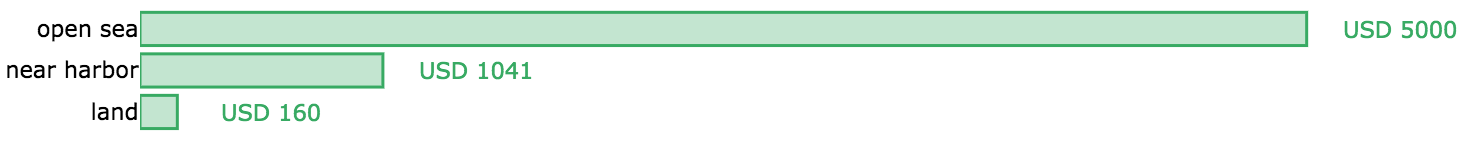
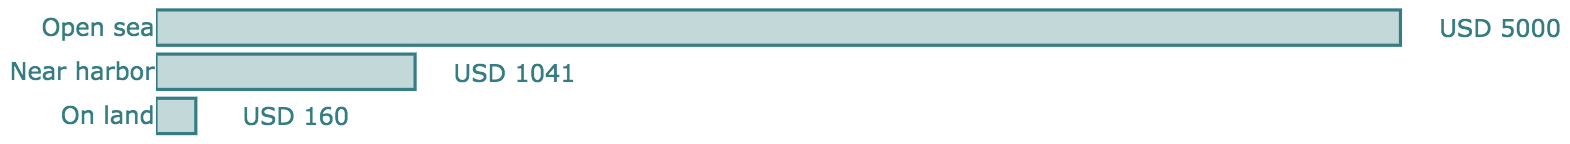
edits

Changed region(s): [[0.0, 0.0563, 0.8926, 0.9577], [0.8926, 0.1127, 1.0, 0.2817]]

diff --git a/plastic_pollution/templates/content/index_details.html b/plastic_pollution/templates/content/index_details.html
@@ -14,13 +14,13 @@
 
 {# estimate 8 million MT #}
 <div class="container">   
-<h4>An estimated 8 million metric tonnes of plastic waste enter the ocean every year</h4>
+<h4>An estimated 8 million metric ton (MT) of plastic waste enter the ocean every year</h4>
 <div class="row"> 
     <div class="col-md-7">
         <div style="width:100%;height:0;padding-bottom:56%;position:relative;"><iframe src="https://giphy.com/embed/jVNRCIoDfJfRTRLQbg" width="100%" height="100%" style="position:absolute" frameBorder="0" class="giphy-embed" allowFullScreen></iframe></div>
     </div>
     <div class="col-md-5">
-        <h5>How much is 8 million metric tonnes?</h5>
+        <h5>How much is 8 million MT?</h5>
         <p>8 million tonnes of plastic, compacted, would fill about 1.2 million freight train cars. If they were all linked together traveling 30 mph (about 50 km/h), it would take 14 days for all 8 million tonnes of plastic to pass.</p>
         <p>Plastic is not biodegradable, so once it’s in the ocean, it remains there.</p>
         
@@ -55,8 +55,11 @@
 <h4 class="text-center">Waste management on land is cheaper</h4>
 <div class="row"> 
     <div class="col-md-12 text-center">
+        <div>
         <img src="static/images/waste_removal_cost_land_sea.png" alt="different amount of plastic waste produced per person on average from different high-income countries" width="100%"/>
-        
+        </div>
+        <br>
+        <h6 class="text-center">Approximate cost of removing 1 MT plastic waste from the ocean, near harbors, and via municipal waste collection on land.</h6>        
     </div>
 </div>
 <br><br>
@@ -166,8 +169,9 @@
 <h4>How much is spent on waste management?</h4>
 <div class="row"> 
     <div class="col-md-7">
+        <div>
         <img src="static/images/city_budget_msw_pct.png" alt="plastic waste managed adequately by country income level" width="100%"/>
-        
+        </div>
         <br>
         <h6 class="text-center">Approximate % of city budgets spent on waste management in high, middle, and low income countries</h6>
     </div>
@@ -179,32 +183,33 @@
 
 <br><br>
 
-
-{#
-<div class="container">   
-<div class="row">        
-<div class="col-md-12">
-    <iframe width="100%" height="500" src="https://www.youtube.com/embed/I4QNolP7Khc" frameborder="0" allow="accelerometer; autoplay; encrypted-media; gyroscope; picture-in-picture" allowfullscreen></iframe>
-</div></div></div>
-
+{# variation in consumption HIC #}
 <br><br>
 <div class="container">   
-<h4 class="text-center">...or recapture the plastic trash near land</h4>
+<h4 class="text-center">How far would a $1,000 investment to clean up plastic waste go?</h4>
 <div class="row"> 
-    <div class="col-md-8">
-        <img src="static/images/mr_trash_wheel_2.jpg" alt="Mr. Trash Wheel in Baltimore, USA" width="100%"/>
-        <h6 class="text-center">Mr. Trash Wheel in Baltimore, MD, USA</h6>
+    <div class="col-md-12 text-center">
+        <img src="static/images/waste_removed_per_1k.png" alt="different amount of plastic waste removed with USD1000" width="100%"/>
+        
     </div>
-    <div class="col-md-4">
-        <img src="static/images/Seabin-collecting-debris.jpg" alt="A seabin from Seabin Project at work" width="100%"/>
-        <h6 class="text-center">Seabin Project: A seabin collecting debris</h6>
-        <img src="static/images/Seabin_standing.png" alt="A seabin from the seabin project in clear view" width="100%"/>
-        <h6 class="text-center">Seabin Project: A seabin collecting debris</h6>        
-
-    </div>
+</div>
+<br><br>
+<div class="row">
+    <p>To stem the ocean plastic pollution, the most cost effective way seems to be building up waste-management infrastructure in the low- and the middle-income countries. This would ensure that less plastic waste goes into the ocean, minimizing the cost of plastic recapture from the ocean, which is very expensive.</p>
+    
+    <p>In addition, building up waste management infrastructure everywhere would go a long way in solving other environmental issues such as air and water pollution, thus ensuring a healthier planet overall.</p>
+        
 
 </div>
 </div>
- #}
+
+<hr>
+<br><br>
+<div class="container">   
+    <div class="col-md-12">
+        Created by Olivia Alley and Anindya Roy
+    </div>
+</div>
+
 
 <br><br><br><br>
